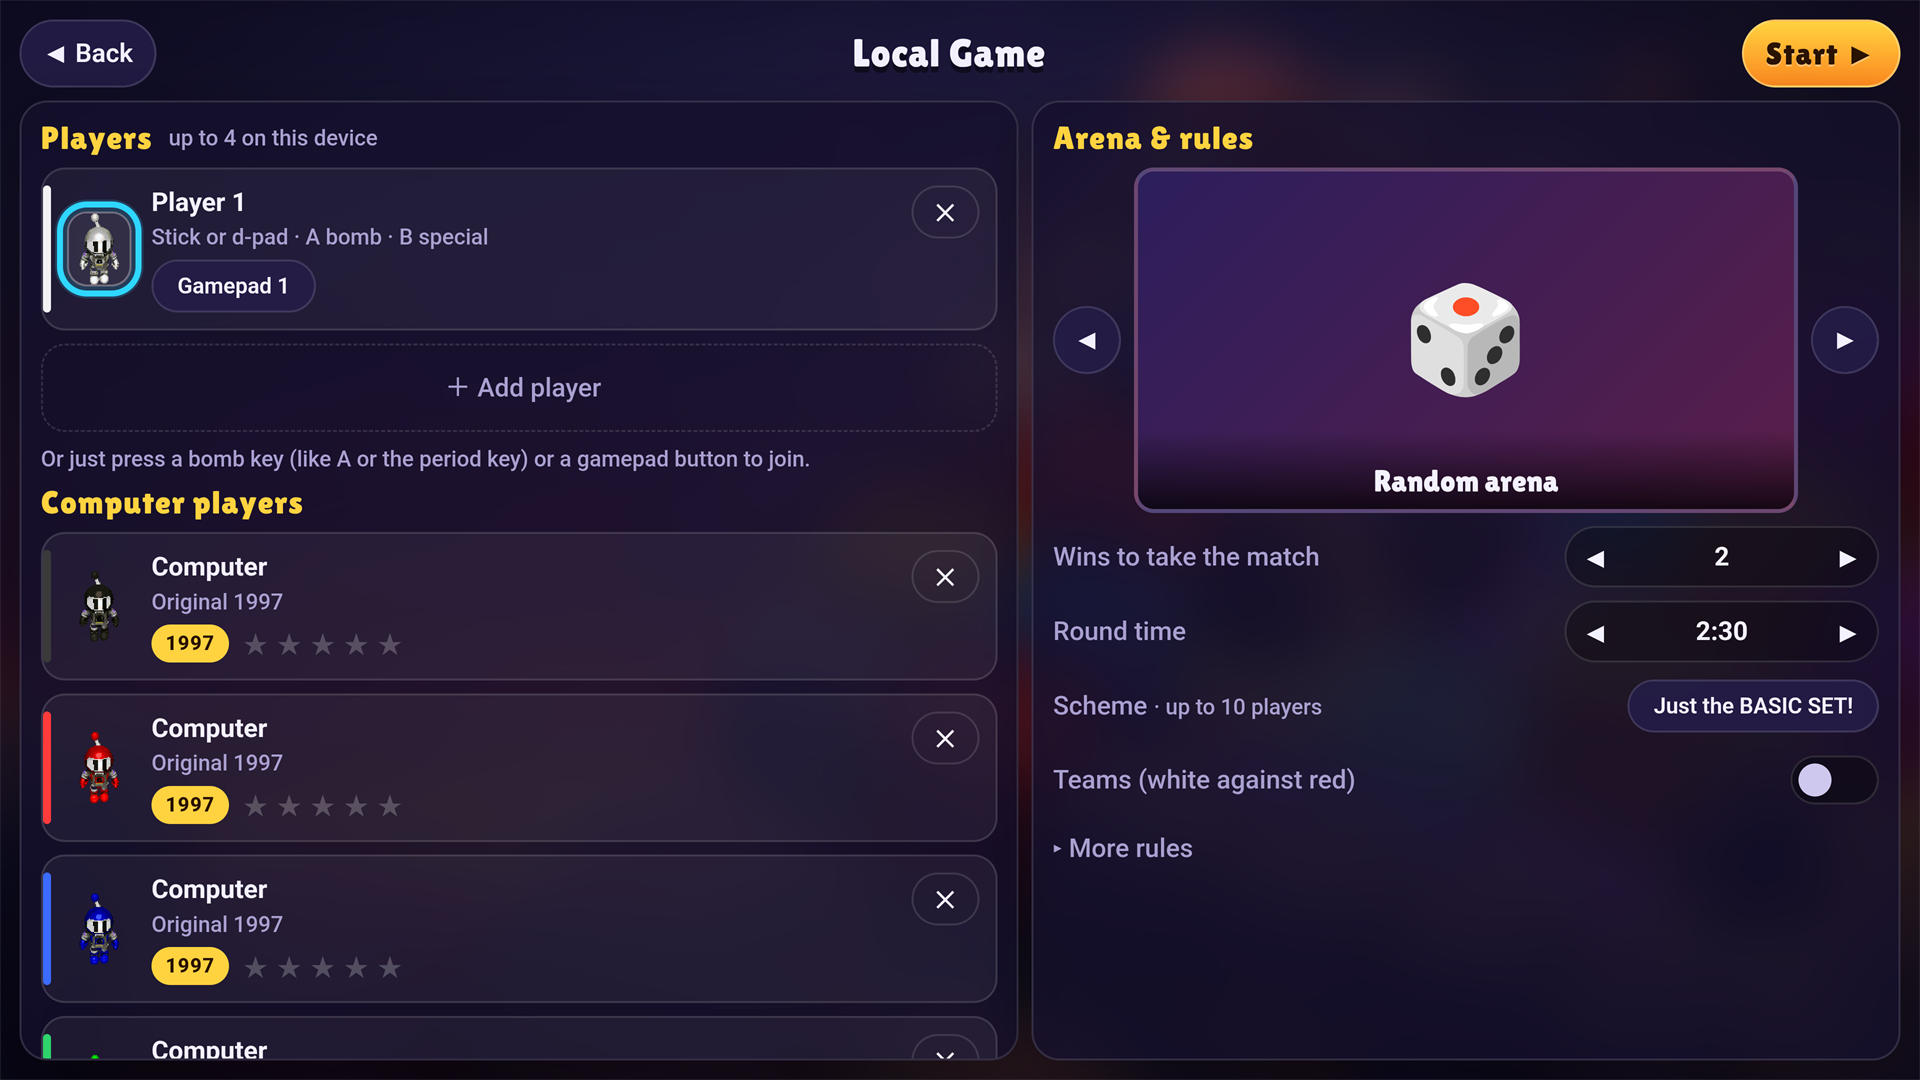
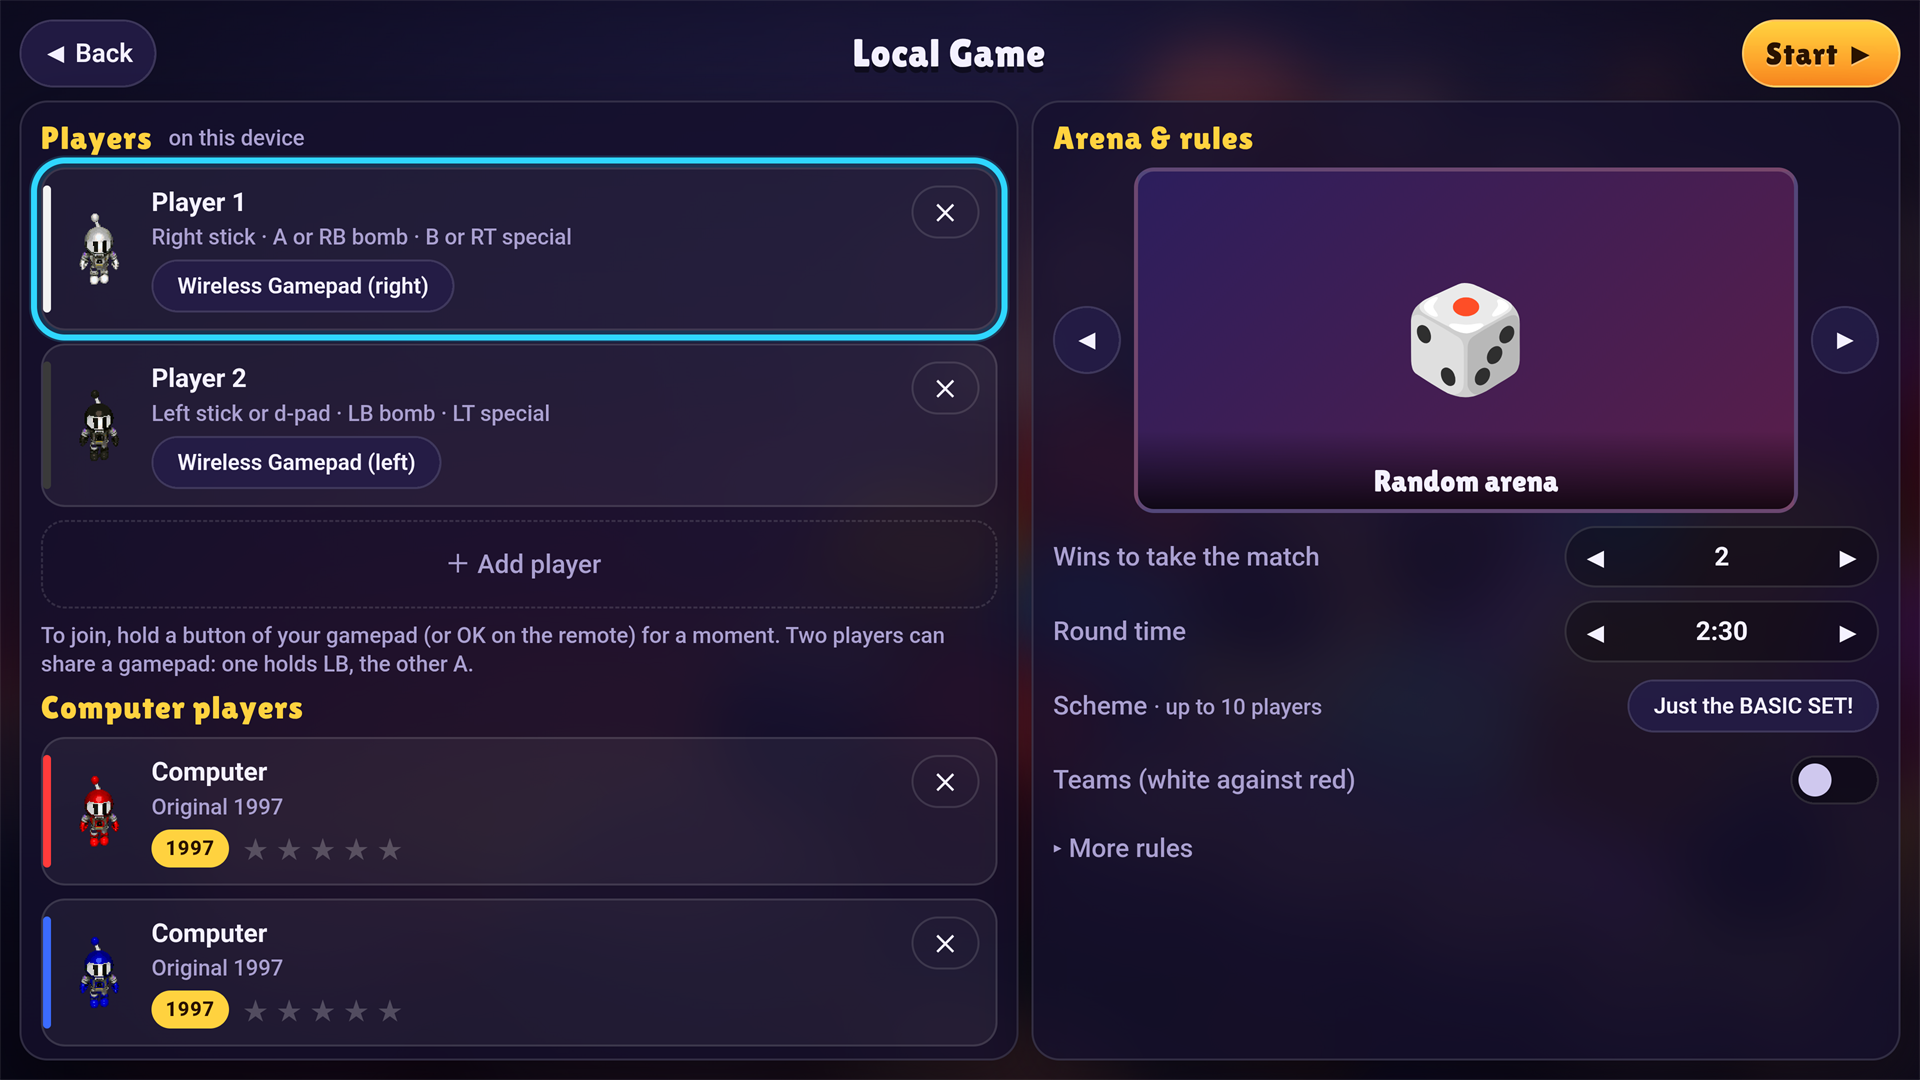
Play listing in step with 1.0.1: descriptions, screenshots, and a script for it
- The listing's short and full descriptions no longer say "4 on the couch" / "up to four people on one TV": the
  whole couch plays, holding a gamepad button to join, two players per gamepad.
- New Android TV screenshots from the 4K emulator: the main screen as the TV app shows it (no GitHub link), a
  lobby with two players sharing a gamepad and the new join hint, two rounds.
- publishing/7-update-play-listing (android/tools/play-listing.mjs) sends store-listing.md's descriptions and the
  screenshots through the Android Publisher API (-Tracks shows the releases, -DryRun changes nothing).
- DIFFERENCES.md: a machine brings as many players as the ten slots leave room for.

diff --git a/android/publishing/store-listing.md b/android/publishing/store-listing.md
@@ -1,6 +1,8 @@
 # Google Play listing
 
-Entered in Play Console on 14 October 2026 (sent for review with release 1.0.0). The texts and files, for later edits.
+Entered in Play Console on 14 October 2026 (sent for review with release 1.0.0); the descriptions were updated
+through the API on 16 October 2026, with release 1.0.1. The texts and files, for later edits: this file is the
+source, sent with the Android Publisher API (edits.listings), so that Play says what the app does.
 
 | Field | Value |
 | --- | --- |
@@ -16,7 +18,7 @@ Entered in Play Console on 14 October 2026 (sent for review with release 1.0.0).
 
 ## Short description (80 characters at most)
 
-The 1997 bomb-dropping party classic: up to 10 bombers, 4 on the couch.
+The 1997 bomb-dropping party classic: up to 10 bombers, two per gamepad.
 
 ## Full description
 
@@ -25,7 +27,7 @@ Up to ten bombers. One arena. The last one standing wins.
 Boom Buds brings the bomb-dropping party classic of 1997 to your TV. Drop bombs, blast through the bricks, grab power-ups and corner your friends in chain reactions, across eleven arenas with conveyor belts, warps, trampolines and arrows.
 
 PLAY ON THE COUCH
-Up to four people on one TV, with Bluetooth gamepads (Xbox, PlayStation, Switch Pro and others) or the TV remote. Fill the arena with computer players: the original 1997 computer player, or five skill levels from Rookie to Master.
+The whole couch plays on one TV: hold a button of your gamepad to join, and two friends can share a gamepad, one on each half. Bluetooth gamepads (Xbox, PlayStation, Switch Pro and others), the TV remote and keyboards all work, and the game remembers who plays with which. Fill the arena with computer players: the original 1997 computer player, or five skill levels from Rookie to Master.
 
 PLAY WITH FRIENDS ANYWHERE
 Network games need no account and no setup: games on your home network show up by themselves, and friends elsewhere join with a six-character room code, from their TV or from a web browser on a computer or phone. Chat in the lobby, agree on the rules, and play at full speed.
@@ -52,6 +54,7 @@ Sharp pixels at 4K, quick sound effects, menus you drive with the remote or a ga
 The icon, banner and feature graphic come from the website's main screen art
 (`node android/tools/generate-store-graphics.ts http://localhost:8080/` with a production build served); the
 launcher banner `app/src/main/res/drawable-xhdpi/tv_banner.png` (320 x 180) is made with them. The screenshots
-are the app on the 4K Google TV emulator (`android/tests/emulator-screenshots.cjs`).
+are the app on the 4K Google TV emulator (`android/tests/emulator-screenshots.cjs`: the main screen, a lobby with
+two players sharing a gamepad, two rounds), sent with `7-update-play-listing.bat -Screenshots` (16 October 2026).
 
 If Console asks whether the graphics were made with AI: the home screen art was.

diff --git a/android/README.md b/android/README.md
@@ -69,7 +69,10 @@ Production access for a personal account needs 12 testers opted in for 14 days i
 
 For each release: raise `versionName` in `version.properties`, write
 `app/src/main/play/release-notes/en-US/default.txt`, run script 4. Version codes are reserved automatically
-(`publishing/secrets/release-state.json`).
+(`publishing/secrets/release-state.json`). When what the app does changes, the listing changes with it:
+edit [`publishing/store-listing.md`](publishing/store-listing.md), make new screenshots on the 4K emulator
+(`tests/emulator-screenshots.cjs`, then look at them) and run script 7 (`-Screenshots` to send them too).
+Everything goes through the Play API; nothing needs Play Console except reading the review status.
 
 ## Scripts
 
@@ -82,6 +85,7 @@ For each release: raise `versionName` in `version.properties`, write
 | `4-publish-to-play.bat` | build and release to the configured tracks (Alpha) |
 | `5-publish-to-play-production.bat` | build and release to Alpha and production |
 | `LAUNCH.bat` / `6-install-on-tv.bat` | build, install and start on a TV with network debugging (pairs once, then remembers it) |
+| `7-update-play-listing.bat` | the listing's descriptions from `store-listing.md` (`-Screenshots`: and the TV screenshots); `-Tracks` shows the releases on each track, `-DryRun` changes nothing |
 
 Requirements: Node.js 22+ (the scripts run `npm ci` when `node_modules` is missing), JDK 17+ (Android
 Studio's is found automatically) and the Android SDK (platform 36). Paths can be set in

diff --git a/android/TESTING.md b/android/TESTING.md
@@ -55,8 +55,10 @@ E S D F play two bombers, Esc pauses.
 `emulator-1997.cjs` plays 1997 mode with the remote: OK goes through the original menus to a round, "Back to
 today" stays hidden during it, Back opens the original's pause box and its arrows and OK choose in it.
 
-`emulator-screenshots.cjs` makes the store screenshots on the 4K emulator. `emulator-release-smoke.cjs` plays
-the signed release APK (no DevTools there) with the virtual remote and takes screenshots to look at.
+`emulator-screenshots.cjs` makes the store screenshots on the 4K emulator (the main screen, a lobby where a second
+player took the left half of the gamepad by holding LB, two rounds); look at them, then send them with
+`publishing/7-update-play-listing.bat -Screenshots`. `emulator-release-smoke.cjs` plays the signed release APK (no
+DevTools there) with the virtual remote and takes screenshots to look at.
 
 The emulators render with SwiftShader at a few frames per second: they prove input paths, sound routing and
 pixels, not smoothness or real audio latency (HDMI, soundbars and a TV's own processing are outside the app).

diff --git a/docs/DIFFERENCES.md b/docs/DIFFERENCES.md
@@ -124,8 +124,8 @@ level staying the current settings afterwards), and the others listed in `docs/r
   In the original menus, *Start Network Game* shows the room code and *Join Network Game* asks for it
   instead of listing servers. The protocol and modem settings rows are kept in the original Options screen
   but have no effect.
-* **Lobby (modern menus).** Every machine brings up to four players of its own and picks their control
-  sets; the host picks the arena and rules and adds computer players; the host's *Start* starts the match on
+* **Lobby (modern menus).** Every machine brings players of its own (as many as the ten slots leave room for)
+  and picks their control sets; the host picks the arena and rules and adds computer players; the host's *Start* starts the match on
   every machine, and after the match everybody is back in the lobby (new machines may join between matches).
 * **Netcode.** Every machine runs the same deterministic simulation from everybody's inputs (rollback
   netcode with one frame of input delay), so all machines show exactly the same game.
